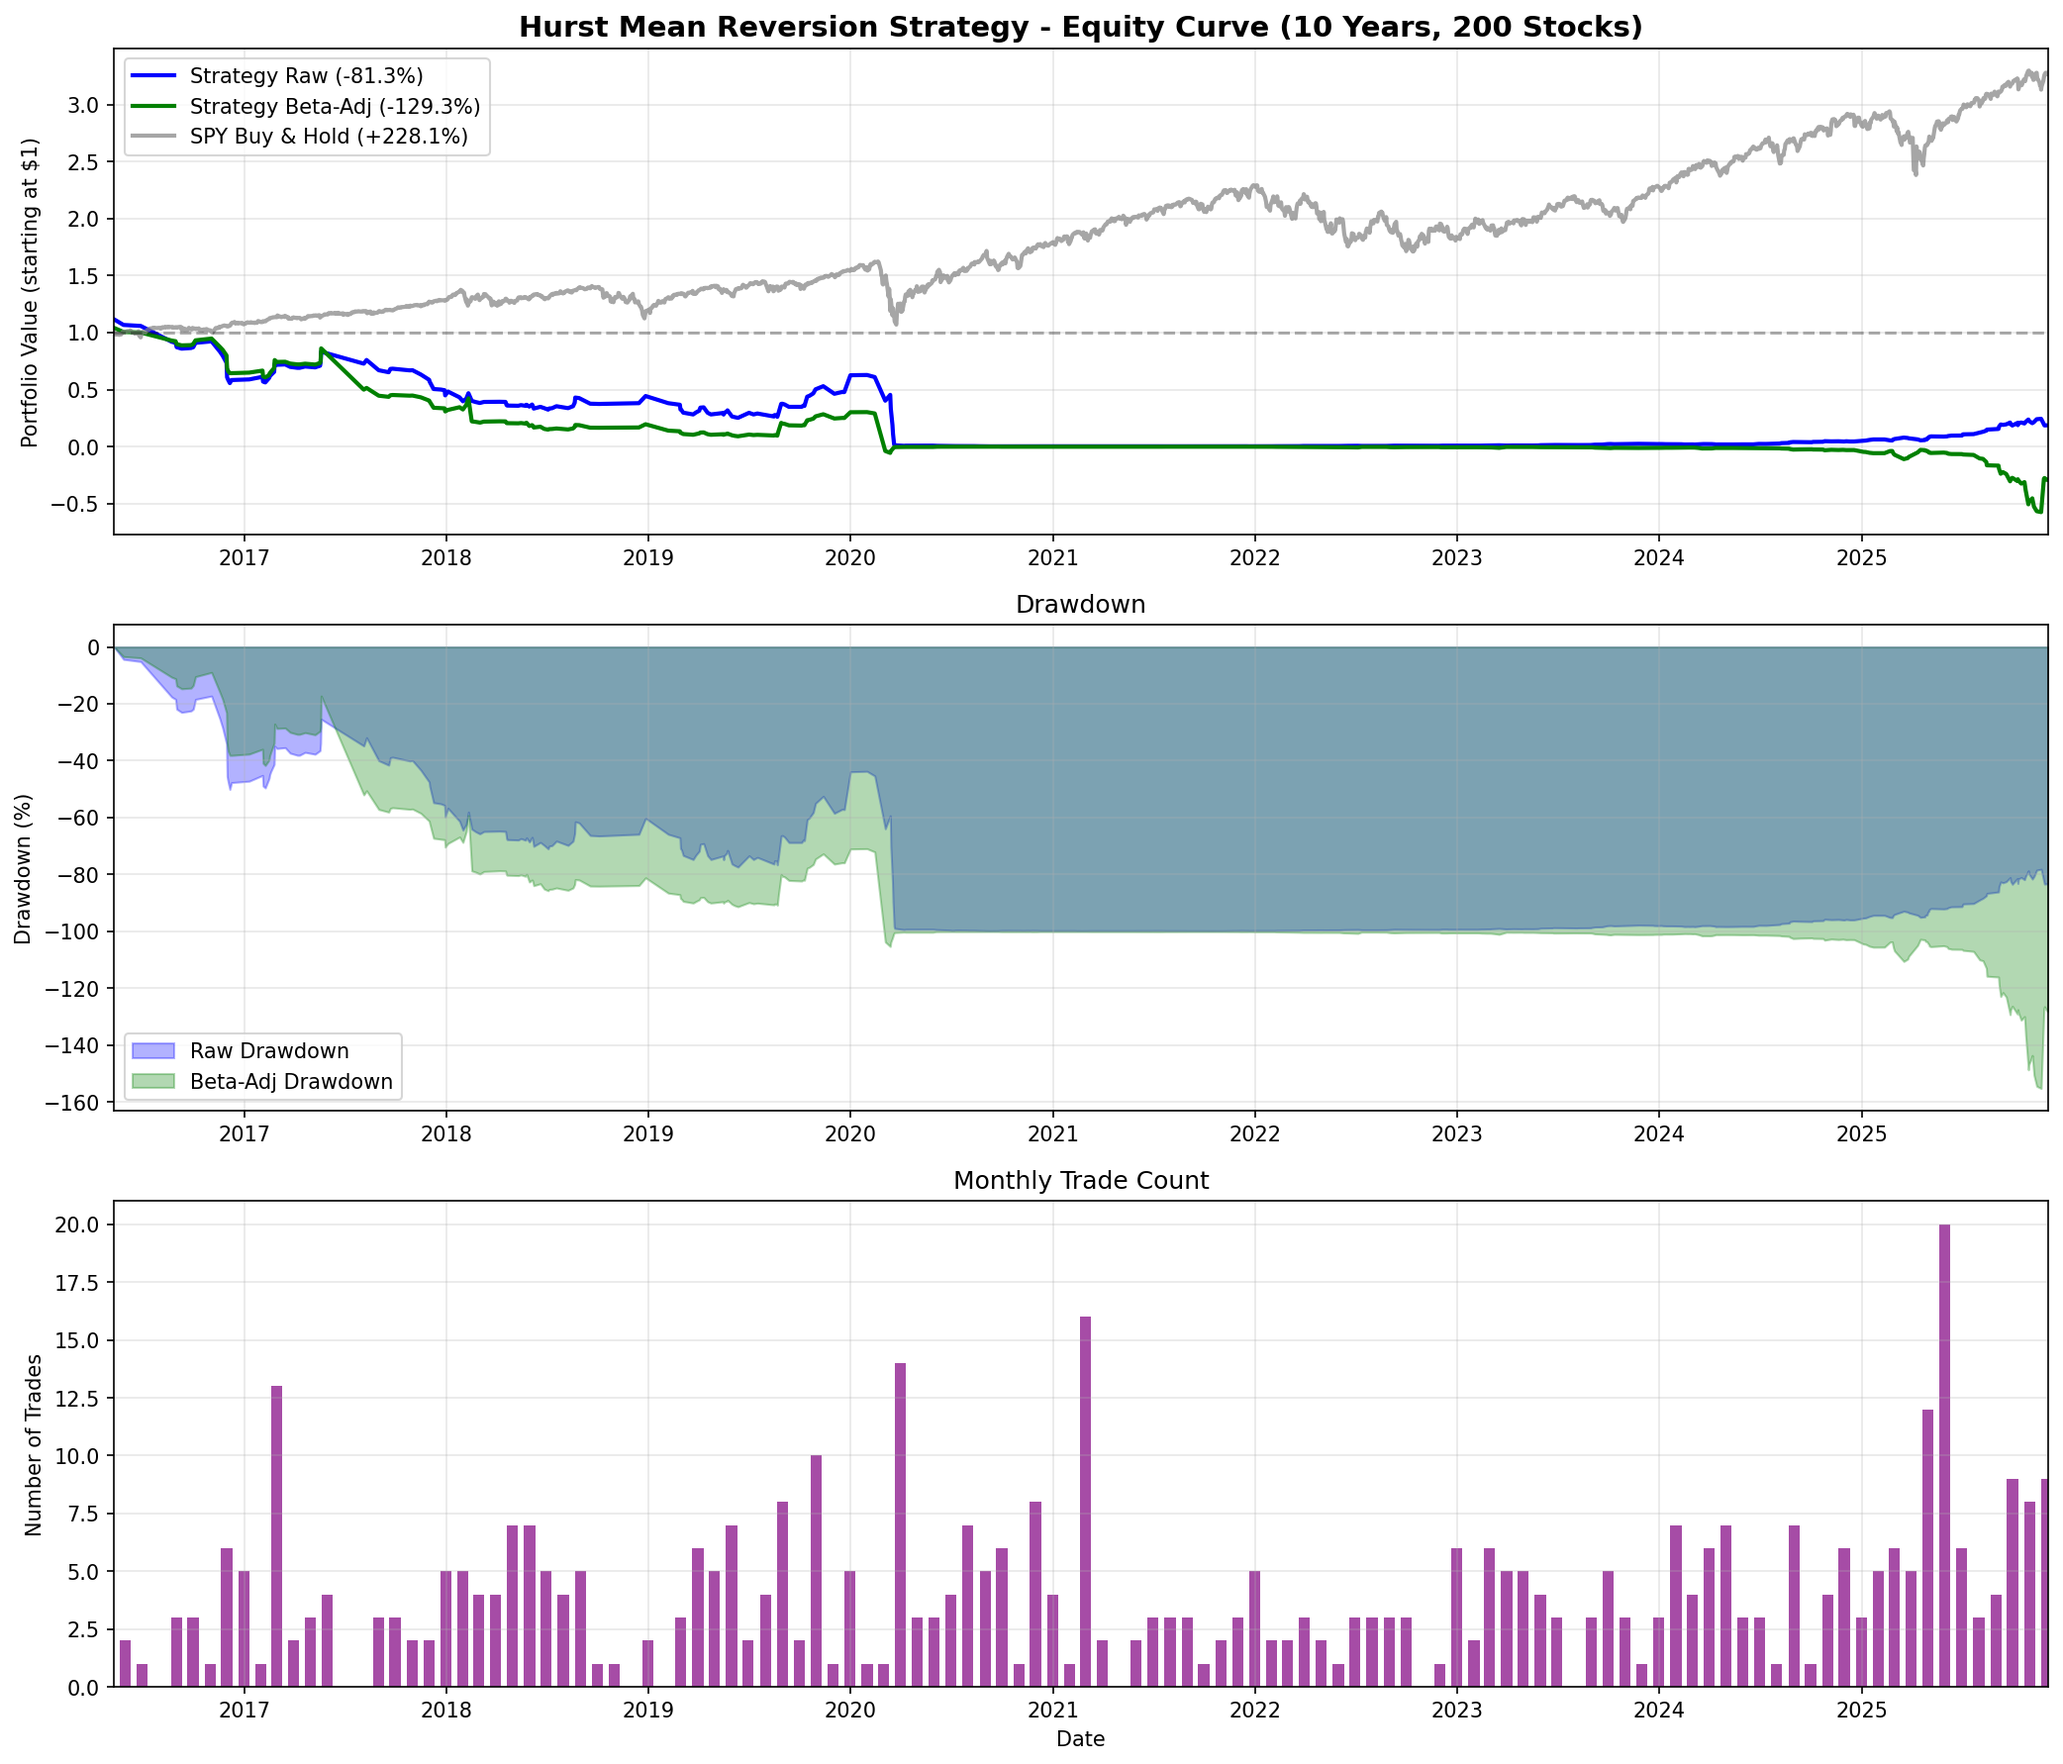
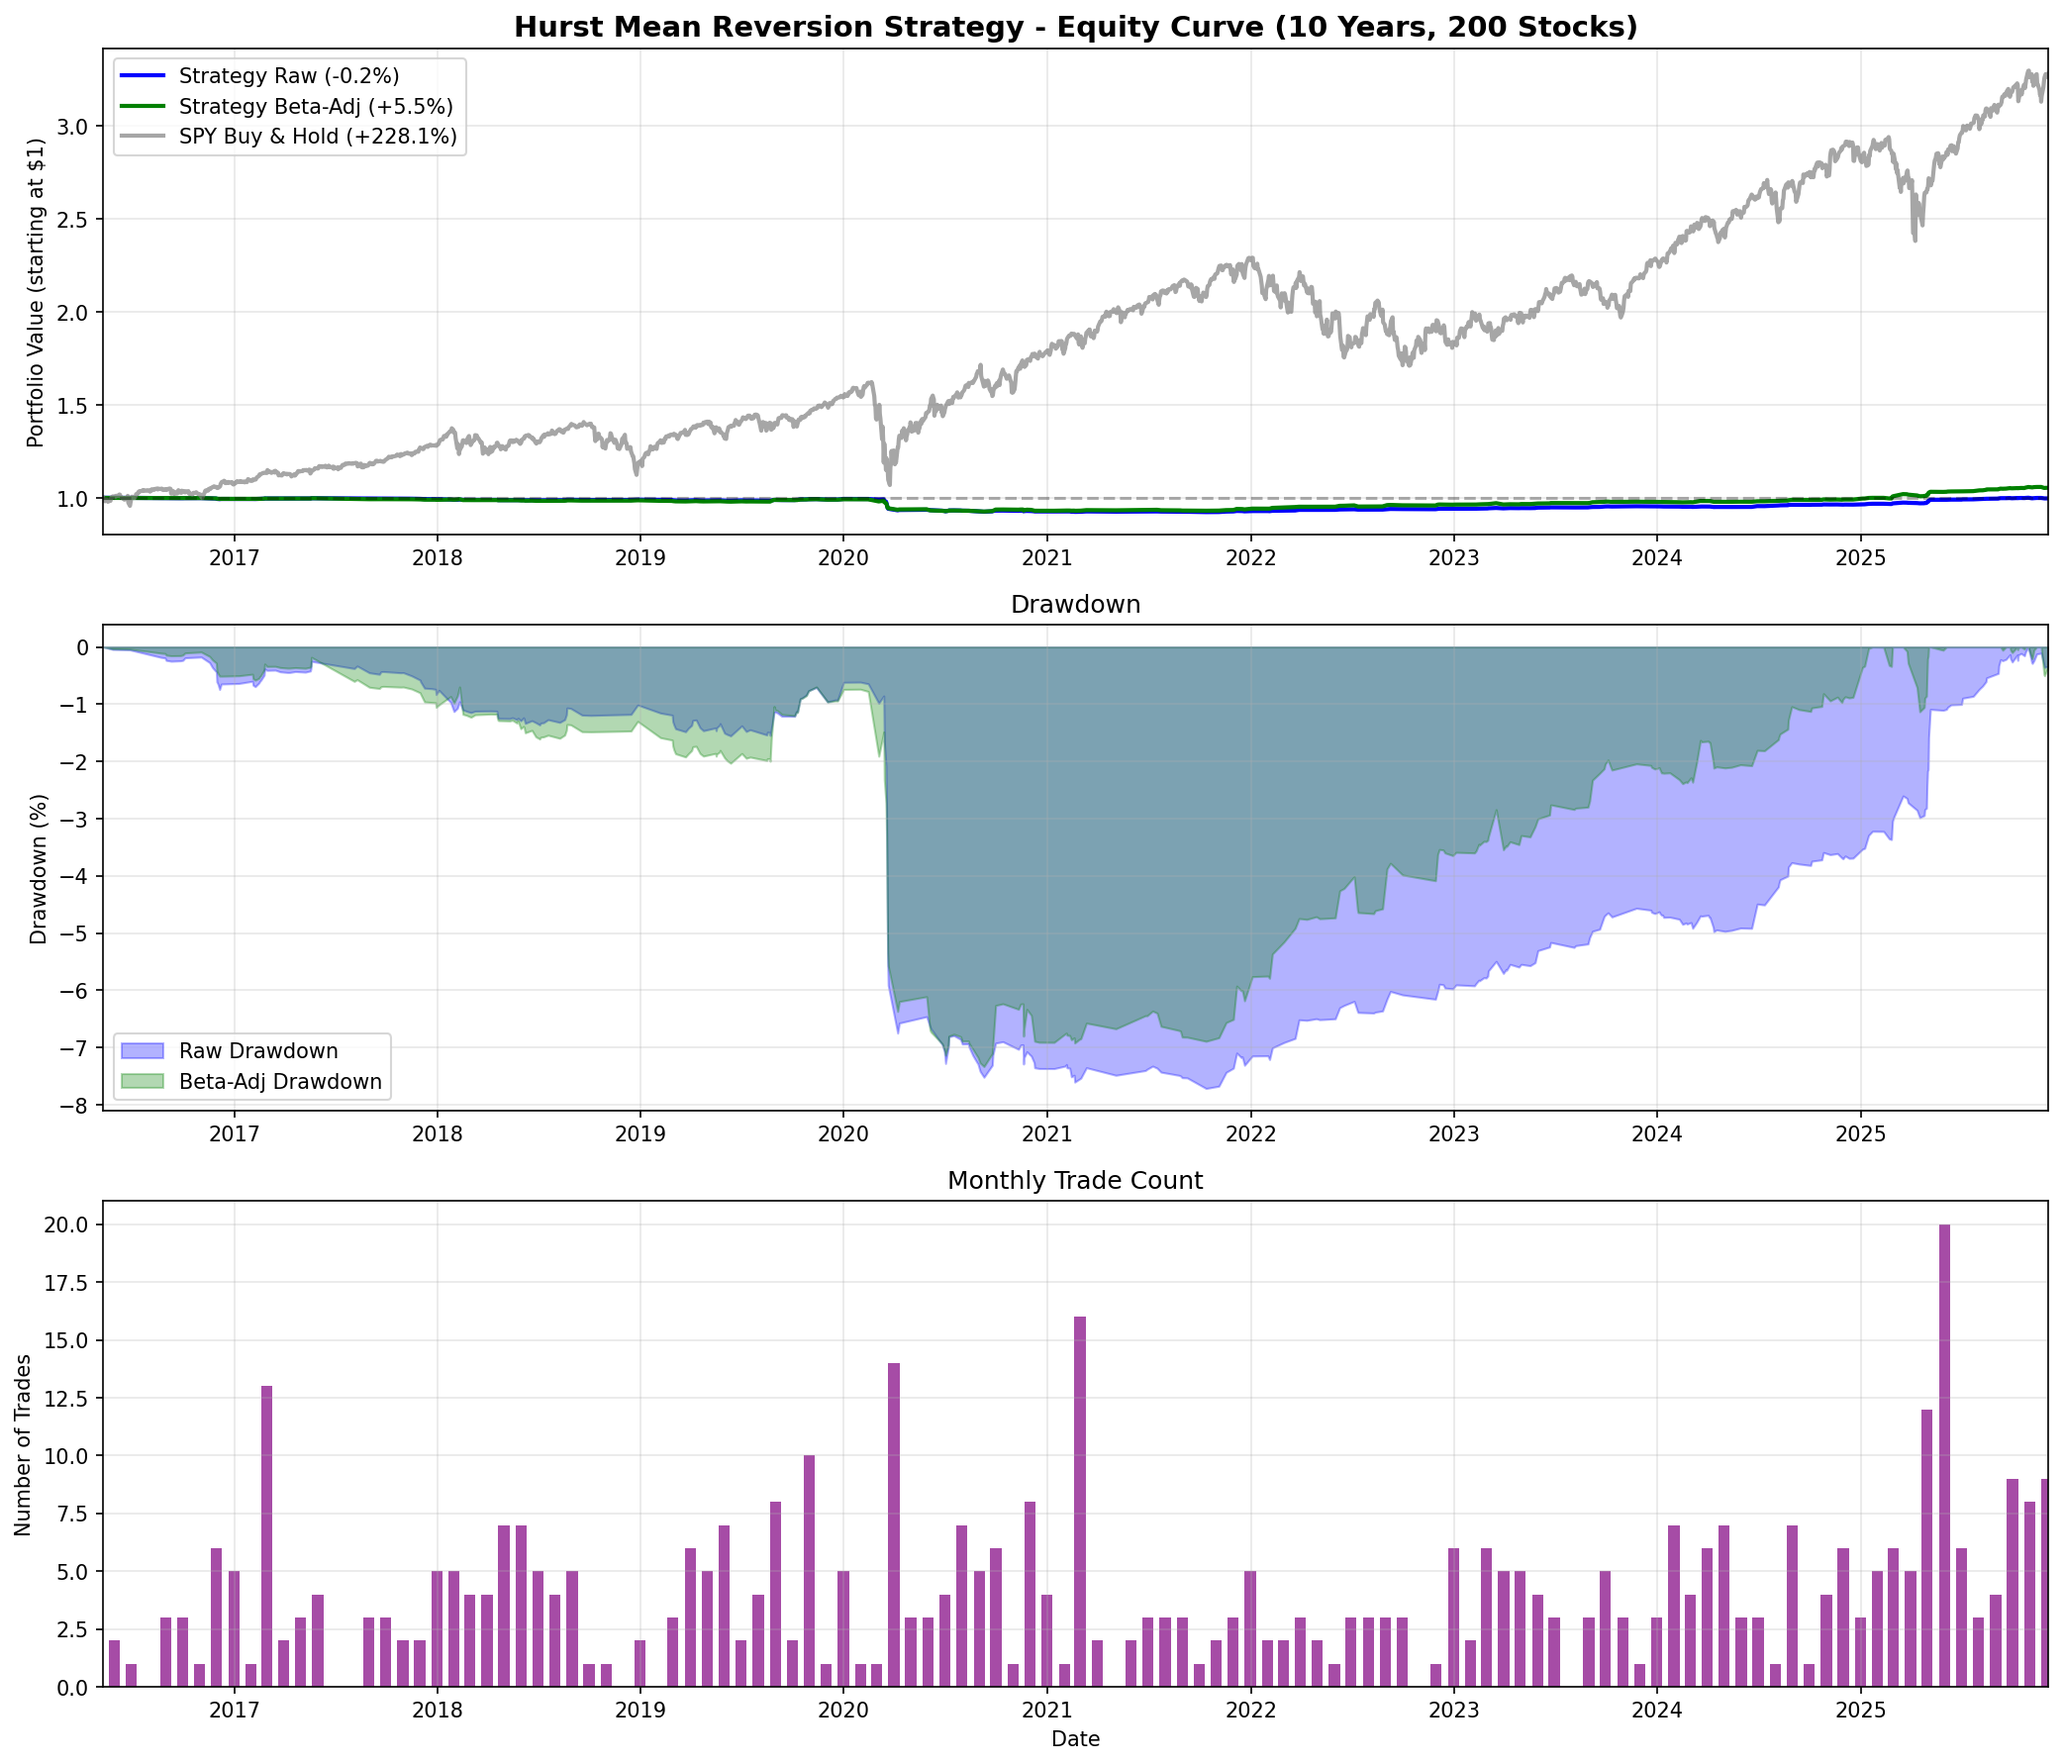
Fix equity curve to use additive P&L instead of compounding

diff --git a/equity_curve.py b/equity_curve.py
@@ -299,26 +299,29 @@ def main():
             trades_by_exit[exit_date] = []
         trades_by_exit[exit_date].append(t)
 
-    # Build equity curve (compounding returns)
-    cumulative_raw = 1.0
-    cumulative_beta = 1.0
+    # Build equity curve (cumulative P&L, equal weight per trade)
+    # Assume each trade uses 1% of capital (equal weight)
+    trade_weight = 0.01  # 1% per trade
+
+    cumulative_raw = 0.0
+    cumulative_beta = 0.0
     equity_data = []
 
     for exit_date in sorted(trades_by_exit.keys()):
         trades = trades_by_exit[exit_date]
-        avg_return = np.mean([t['return'] for t in trades])
-        avg_beta_return = np.mean([t['beta_adj_return'] for t in trades])
 
-        cumulative_raw *= (1 + avg_return)
-        cumulative_beta *= (1 + avg_beta_return)
+        # Add P&L from each trade (weighted)
+        for t in trades:
+            cumulative_raw += t['return'] * trade_weight
+            cumulative_beta += t['beta_adj_return'] * trade_weight
 
         equity_data.append({
             'date': exit_date,
-            'raw_equity': cumulative_raw,
-            'beta_equity': cumulative_beta,
+            'raw_equity': 1.0 + cumulative_raw,  # Starting at $1
+            'beta_equity': 1.0 + cumulative_beta,
             'n_trades': len(trades),
-            'avg_return': avg_return,
-            'avg_beta_return': avg_beta_return,
+            'avg_return': np.mean([t['return'] for t in trades]),
+            'avg_beta_return': np.mean([t['beta_adj_return'] for t in trades]),
         })
 
     # Convert to DataFrame
@@ -414,22 +417,20 @@ def main():
             trades_by_year[year] = []
         trades_by_year[year].append(t)
 
-    print(f"\n{'Year':<6} | {'Trades':>7} | {'Avg Ret%':>10} | {'Avg Beta%':>10} | {'Cumul Raw':>10} | {'Cumul Beta':>10}")
-    print("-" * 70)
+    print(f"\n{'Year':<6} | {'Trades':>7} | {'Avg Ret%':>10} | {'Avg Beta%':>10} | {'Year P&L%':>10} | {'Cumul P&L%':>10}")
+    print("-" * 75)
 
-    cumul_raw = 1.0
-    cumul_beta = 1.0
+    cumul_pnl = 0.0
     for year in sorted(trades_by_year.keys()):
         trades = trades_by_year[year]
         avg_ret = np.mean([t['return'] for t in trades]) * 100
         avg_beta = np.mean([t['beta_adj_return'] for t in trades]) * 100
 
-        # Calculate year's cumulative
-        for t in trades:
-            cumul_raw *= (1 + t['return'])
-            cumul_beta *= (1 + t['beta_adj_return'])
+        # Year P&L (sum of returns * weight)
+        year_pnl = sum(t['beta_adj_return'] for t in trades) * trade_weight * 100
+        cumul_pnl += year_pnl
 
-        print(f"{year:<6} | {len(trades):>7} | {avg_ret:>10.2f} | {avg_beta:>10.2f} | {(cumul_raw-1)*100:>10.1f}% | {(cumul_beta-1)*100:>10.1f}%")
+        print(f"{year:<6} | {len(trades):>7} | {avg_ret:>10.2f} | {avg_beta:>10.2f} | {year_pnl:>+10.2f} | {cumul_pnl:>+10.2f}")
 
 
 if __name__ == "__main__":
